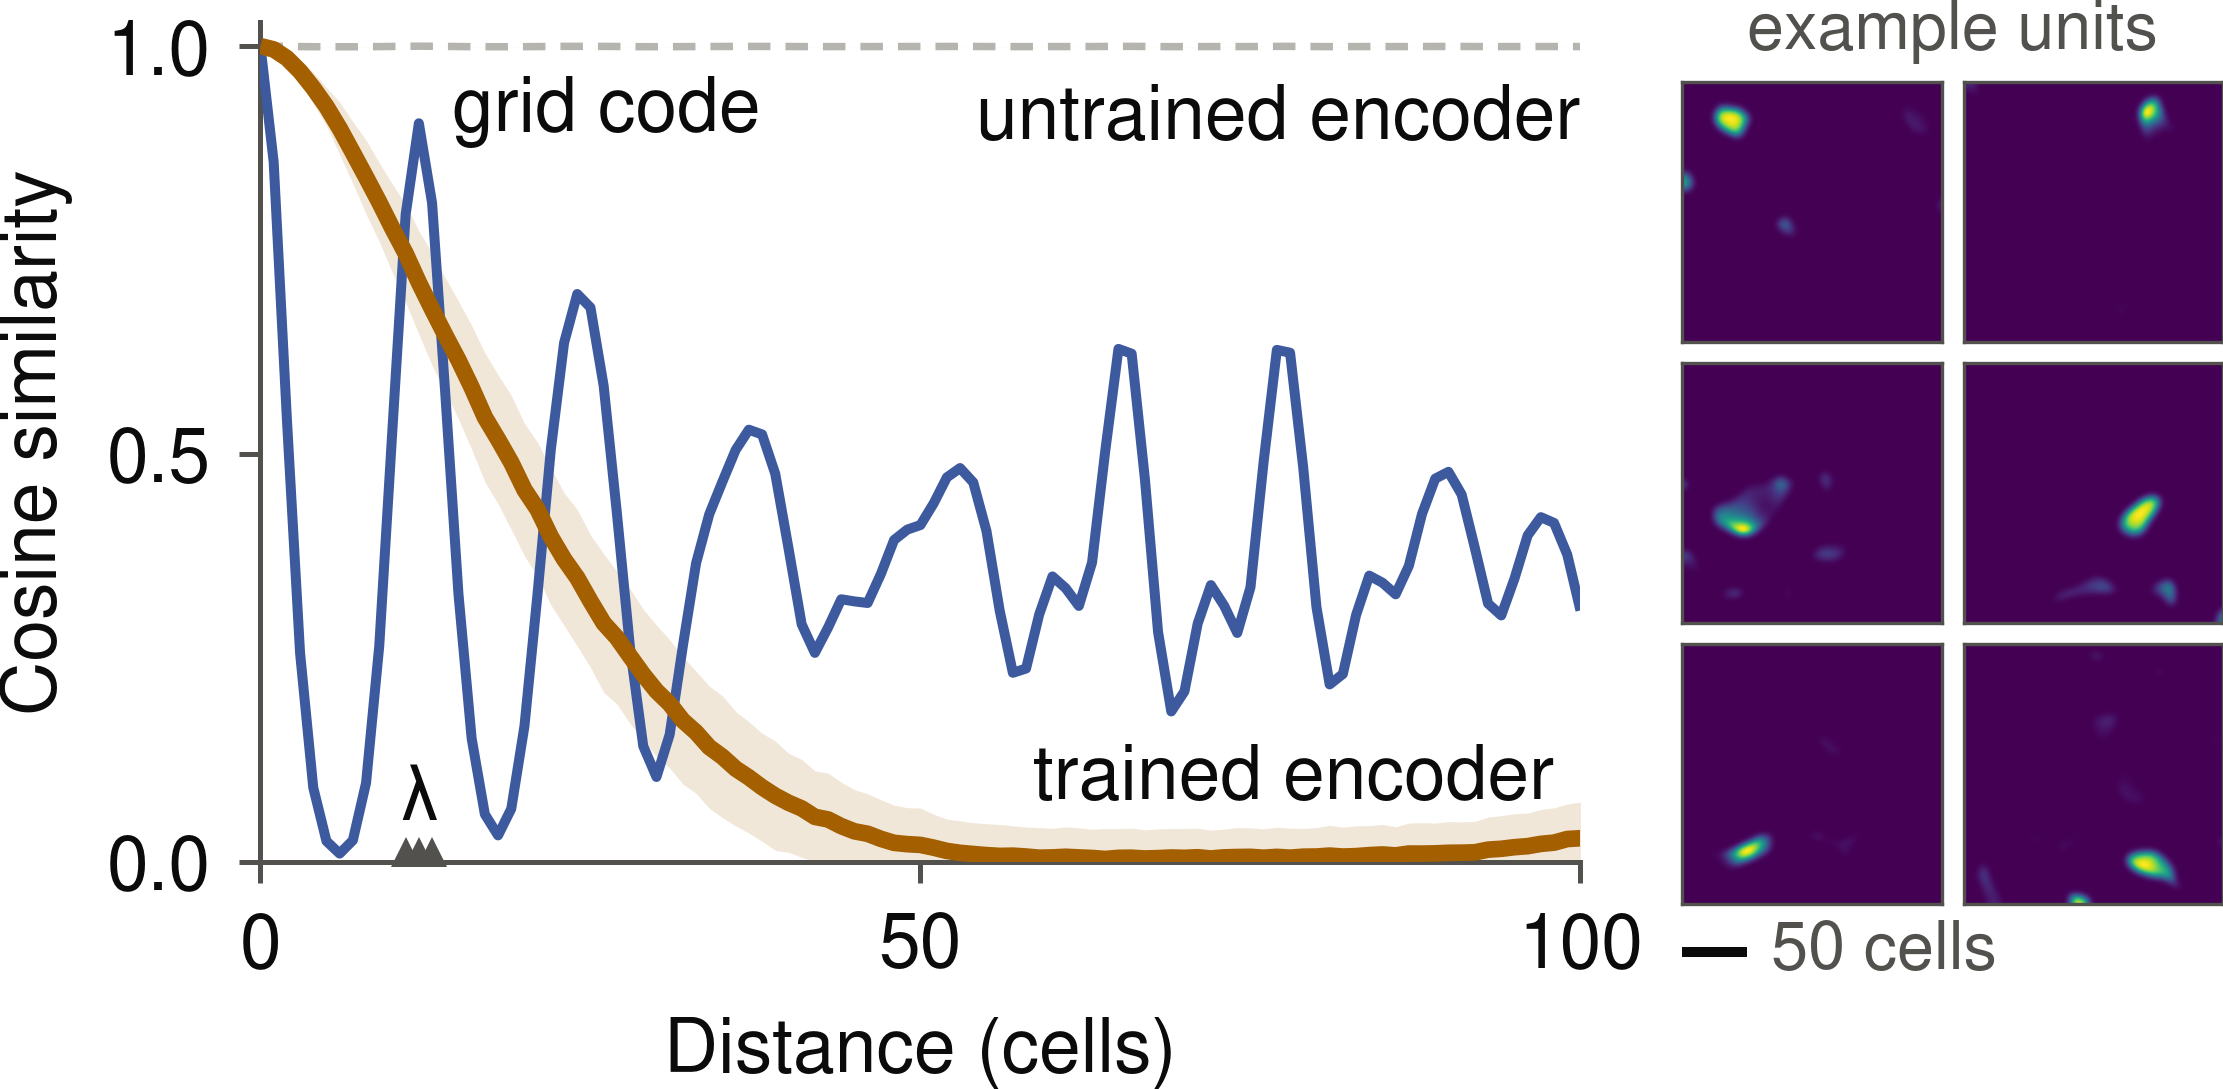
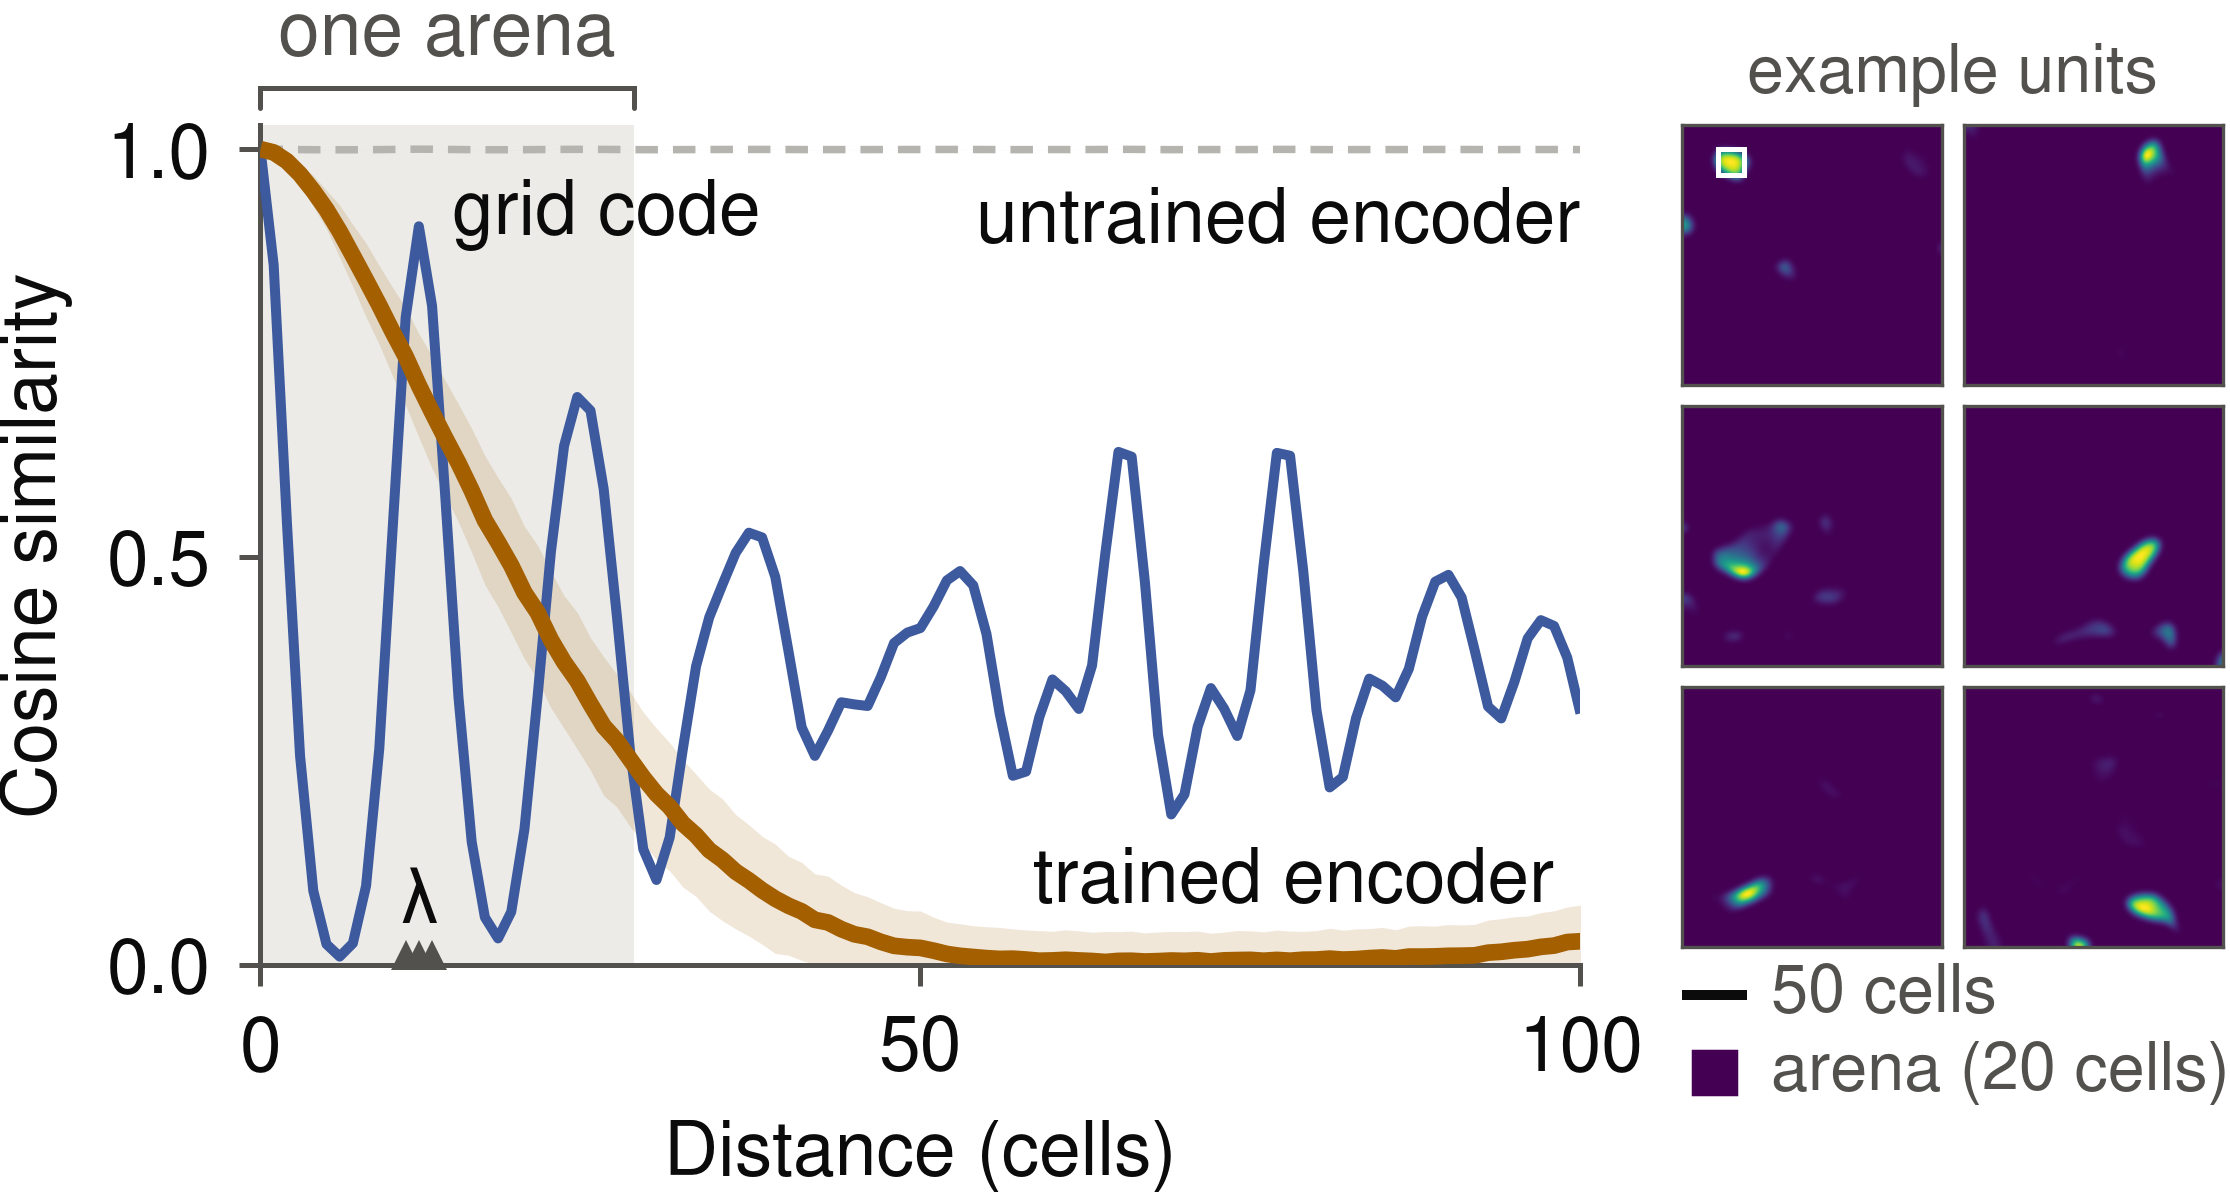
cosyne2027 encoder figure: mark the arena scale
Shaded band and 'one arena' bracket over distances up to a 20-cell arena's
diagonal (28 cells), where the trained encoder's similarity stays ~0.3-1;
a 20-cell arena outline on the first example map, centred on its field
peak, with a key under the scale bar.

diff --git a/cosyne2027/fig_encoder.py b/cosyne2027/fig_encoder.py
@@ -22,18 +22,22 @@ import json
 
 import matplotlib.pyplot as plt
 import numpy as np
+from matplotlib.patches import Rectangle
 
 import style
 
 style.apply()
 
 DATA = style.HERE / "data" / "encoder_similarity.json"
-FIG_W, FIG_H = 3.73, 1.78
+FIG_W, FIG_H = 3.73, 1.93
 AX = [0.43, 0.3, 2.2, 1.4]           # axes: left, bottom, w, h (in)
 MAPS = style.HERE / "data" / "encoder_unit_maps.npz"
 MM = 1 / 25.4
 MAP, MAP_GAP = 11 * MM, 0.9 * MM     # map side and gap (in)
-PANEL_X, PANEL_TOP = 2.8, 1.6        # side panel: left edge, top of maps (in)
+PANEL_X, PANEL_TOP = 2.8, 1.7        # side panel: left edge, top of maps (in)
+ARENA = 20                           # task arena side (cells)
+ARENA_DIAG = ARENA * np.sqrt(2)      # largest distance inside one arena
+SHADE = "#ecebe7"
 SCALE_CELLS = 50
 CURVES = {  # name: (color, lw, linestyle)
     "trained encoder": ("#a35f00", 2.0, "-"),
@@ -69,6 +73,14 @@ def main():
                 mec="none", clip_on=False, zorder=6)
     style.rich(ax, np.mean(d["lambdas"]), 0.085, [("λ", "g")])
 
+    # Distances that occur inside one task arena, bracketed above the axes
+    ax.axvspan(0, ARENA_DIAG, color=SHADE, lw=0, zorder=0)
+    yb = 1.075
+    ax.plot([0, 0, ARENA_DIAG, ARENA_DIAG], [yb - 0.025, yb, yb, yb - 0.025],
+            color=style.INK_2, lw=0.6, clip_on=False, solid_joinstyle="miter")
+    ax.text(ARENA_DIAG / 2, yb + 0.02, "one arena", ha="center", va="bottom",
+            color=style.INK_2, clip_on=False)
+
     ax.set_xlim(0, x[-1])
     ax.set_ylim(0, 1.03)
     ax.set_xticks([0, 50, 100])
@@ -99,6 +111,12 @@ def unit_panel(fig):
             sp.set_visible(True)
             sp.set_linewidth(0.4)
             sp.set_color(style.INK_2)
+        if k == 0:
+            # One task arena, centred on this unit's field peak (the centre
+            # of mass is pulled off it by faint specks elsewhere)
+            cx, cy = np.unravel_index(np.argmax(m), m.shape)
+            a.add_patch(Rectangle((cx - ARENA / 2, cy - ARENA / 2), ARENA,
+                                  ARENA, fc="none", ec="white", lw=0.6))
     width = n_cols * MAP + (n_cols - 1) * MAP_GAP
     fig.text((PANEL_X + width / 2) / FIG_W, (PANEL_TOP + 0.03) / FIG_H,
              "example units", ha="center", va="bottom", fontsize=8,
@@ -111,6 +129,16 @@ def unit_panel(fig):
                               solid_capstyle="butt"))
     fig.text((PANEL_X + bar + 0.04) / FIG_W, yb / FIG_H,
              f"{SCALE_CELLS} cells", ha="left", va="center", fontsize=8,
+             color=style.INK_2)
+    # Key for the arena outline, on the line below
+    yk, sq = yb - 0.13, 0.09
+    fig.add_artist(Rectangle(((PANEL_X + bar / 2 - sq / 2) / FIG_W,
+                              (yk - sq / 2) / FIG_H), sq / FIG_W, sq / FIG_H,
+                             transform=fig.transFigure,
+                             fc=plt.get_cmap("viridis")(0.0), ec="white",
+                             lw=0.9))
+    fig.text((PANEL_X + bar + 0.04) / FIG_W, yk / FIG_H,
+             f"arena ({ARENA} cells)", ha="left", va="center", fontsize=8,
              color=style.INK_2)
 
 

diff --git a/cosyne2027/README.md b/cosyne2027/README.md
@@ -118,5 +118,10 @@ partition of the window is shown, each normalised to its own peak. For the
 caption: the raw units are near-binary +-0.034 sign patterns over large
 regions; these are the 9% with one dominant field after processing. (The
 notebook's own single fields came from the April gain-3.7 encoder
-`encoders/run_20260422_185816`.) The panel sits beside the plot because the
+`encoders/run_20260422_185816`.) Arena scale: the shaded band and "one arena" bracket on the plot cover
+distances up to a 20-cell arena's diagonal (28 cells), where the trained
+encoder's similarity stays between ~0.3 and 1, so the recall direction
+toward a stored goal is defined from anywhere in an arena; the first map
+carries a 20-cell arena outline centred on its field peak. The panel sits
+beside the plot because the
 axis-aligned grid code fills the axes' empty space.
